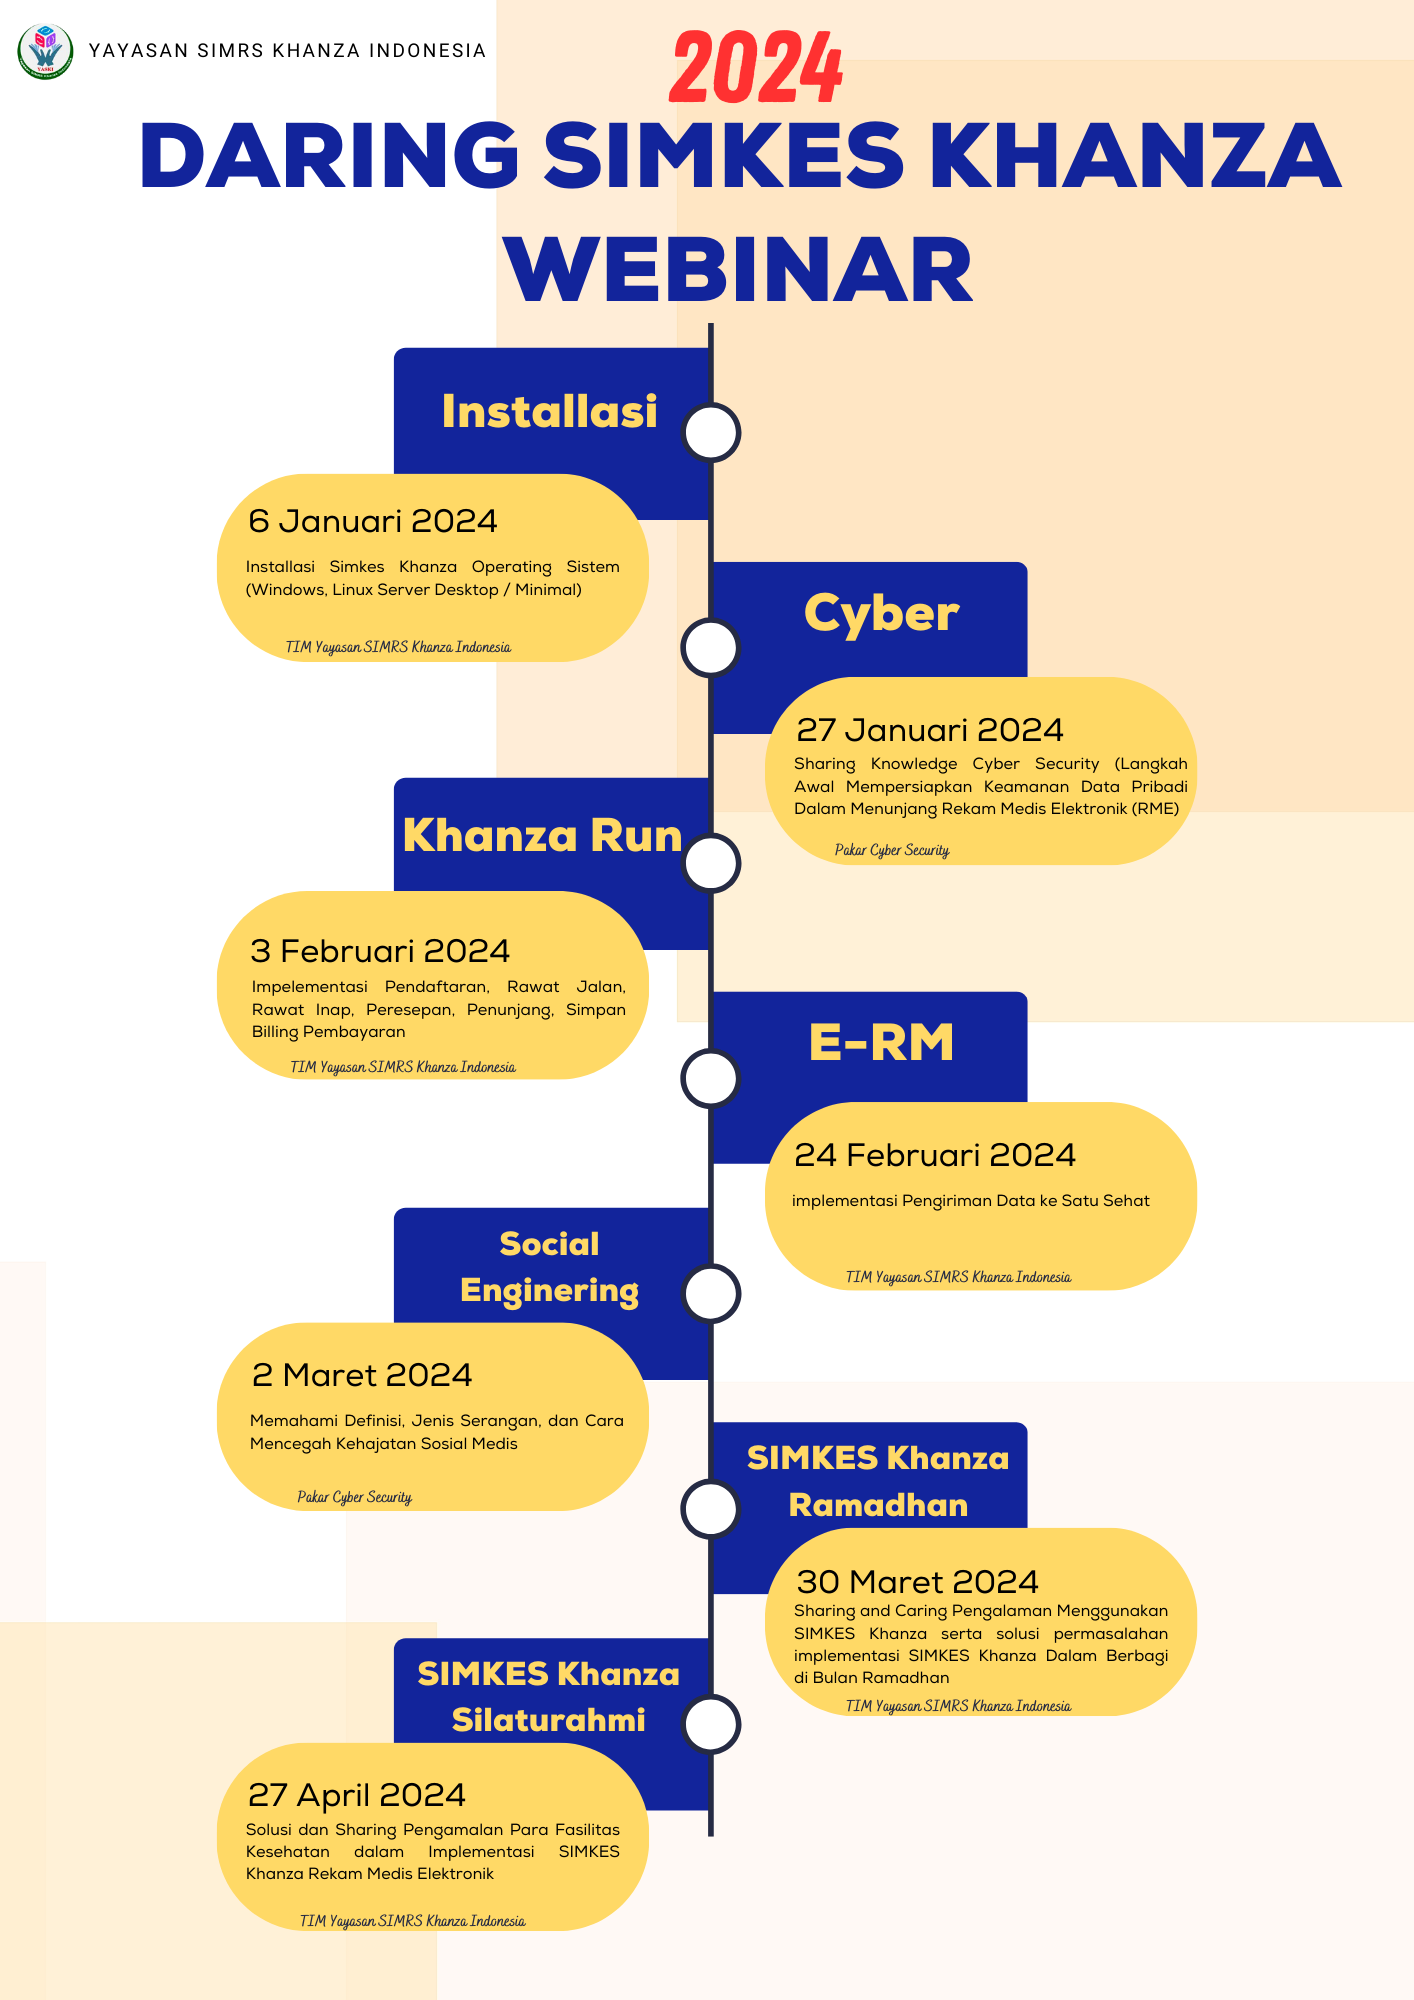
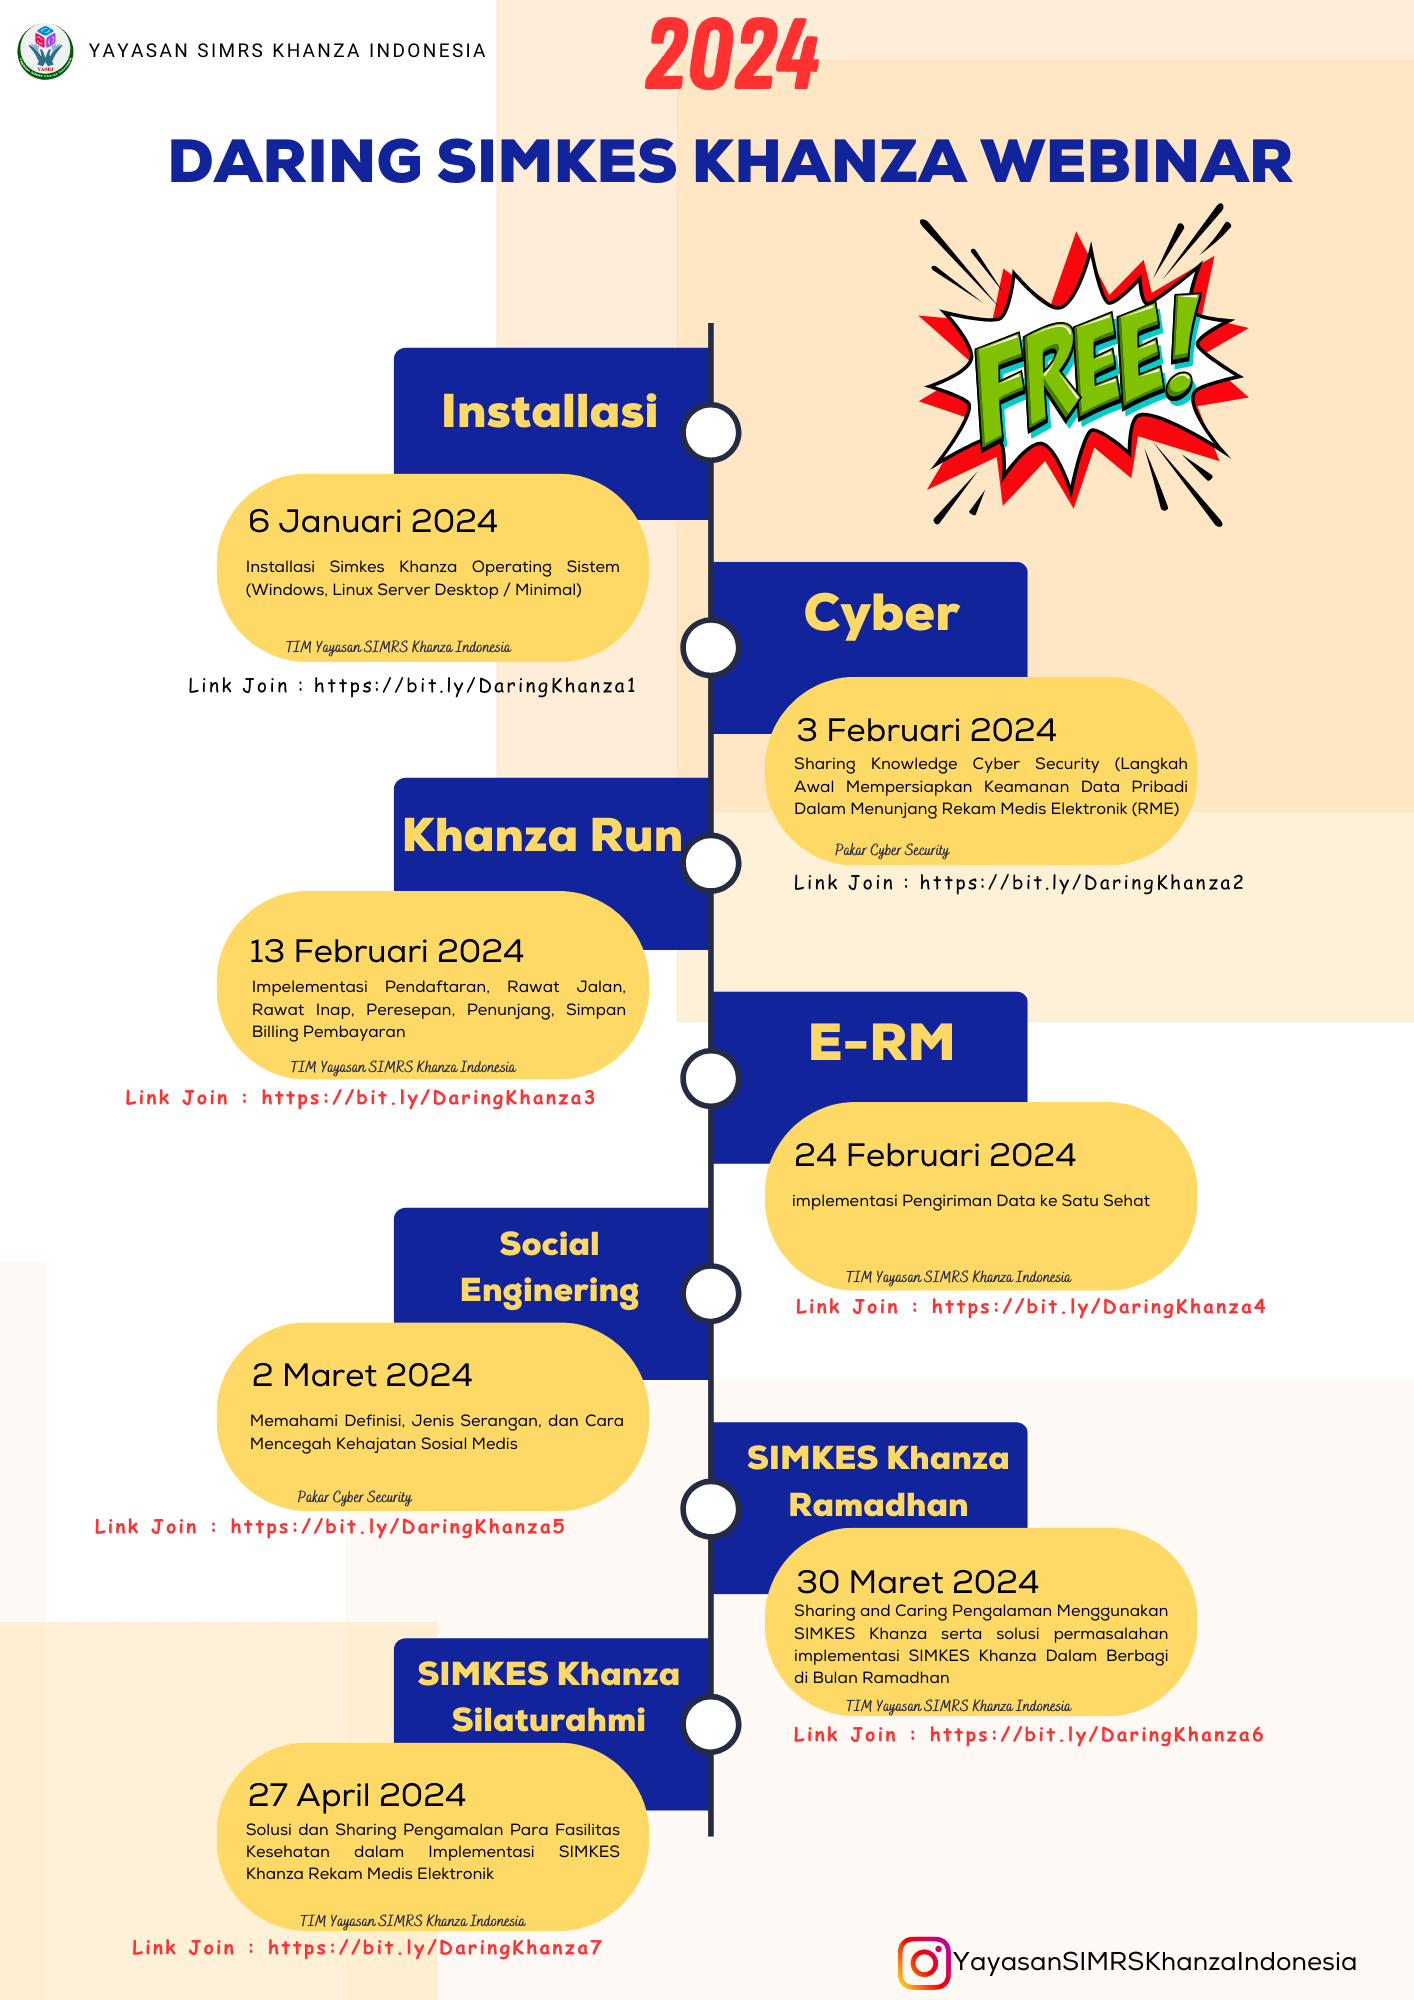
Update Workshop
Clear

diff --git a/docs/workshop.html b/docs/workshop.html
@@ -149,9 +149,9 @@
             <figure>
               <img class="img-fluid col-md-9" src="./images/timeline.jpg">
             </figure>
-            <!-- <figure>
+            <figure>
               <img class="img-fluid col-md-9" src="./images/daring.png">
-            </figure> -->
+            </figure>
                 <a href="./download/TOR_FEB2024.pdf" target="_blank">Download TOR & RUNDOWN</a> <br>
                 <!-- <a href="./download/torsesi3.pdf" target="_blank">Download Brosur dan TOR Camp Coding</a> &nbsp;|&nbsp; --> 
                 <!-- <a href="./download/tordes2023.pdf" target="_blank">Download Brosur dan TOR</a> <br> -->
